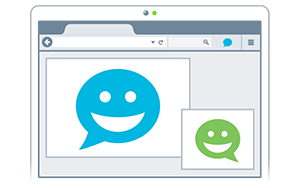
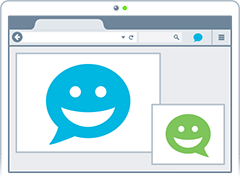
Fx36 Hello tour template updates

diff --git a/bedrock/firefox/templates/firefox/australis/fx36/whatsnew-tour.html b/bedrock/firefox/templates/firefox/australis/fx36/whatsnew-tour.html
@@ -9,11 +9,11 @@
 {% block telemetry_id %}whatsnew-tour-36-release{% endblock %}
 
 {% block site_css %}
-  {{ css('firefox_fx36_whatsnew') }}
+  {% stylesheet 'firefox_fx36_whatsnew' %}
 {% endblock %}
 
 {% block js %}
-  {{ js('firefox_fx36_whatsnew') }}
+  {% javascript 'firefox_fx36_whatsnew' %}
 {% endblock %}
 
 {% block string_data %}
@@ -21,24 +21,21 @@ data-open="{{ _('Open tour') }}"
 data-close="{{ _('Close tour') }}"
 data-next="{{ _('Next') }}"
 data-title="{{ _('Meet Hello') }}"
-
 {% if LANG.startswith('en-') %}
 data-text="The easiest way to connect for free over video with anyone, anywhere."
 {% else %}
 data-text="{{ _('The easiest way to connect for free over video with anyone, anywhere') }}"
 {% endif %}
-
 data-start="{{ _('Show me how') }}"
 data-later="{{ _('Not now') }}"
-
 data-title-no-icon="{{ _('Did you know?') }}"
 data-text-no-icon="{{ _('You can have free video conversations right from your Firefox browser.') }}"
-
 data-later-cta="{{ _('Take the tour to see what’s new') }}"
 {# L10n: This is the label that represents tour step one of two #}
 data-step1="{{ _('1/2') }}"
 {# L10n: This is the label that represents tour step two of two #}
 data-step2="{{ _('2/2') }}"
+data-has-tour="True"
 {% endblock %}
 
 {% block main_heading %}
@@ -95,11 +92,11 @@ data-step2="{{ _('2/2') }}"
                 <li>{{ _('Simply start a conversation and share a link') }}</li>
                 <li>{{ _('Invite anyone, anywhere to join') }}</li>
               </ul>
-              <div class="hello-prompt-door-hanger" data-title="{{ _('Keep conversations one click away') }}" data-text="{{ _('Add Hello to your toolbar so it’s here whenever you need it.') }}" data-button-add="{{ _('Add it now') }}" data-button-later="{{ _('Later') }}" data-icon="{{ MEDIA_URL }}img/firefox/australis/hello-icon.png" data-icon-high-res="{{ MEDIA_URL }}img/firefox/australis/hello-icon-high-res.png"></div>
+              <div class="hello-prompt-door-hanger" data-title="{{ _('Keep conversations one click away') }}" data-text="{{ _('Add Hello to your toolbar so it’s here whenever you need it.') }}" data-button-add="{{ _('Add it now') }}" data-button-later="{{ _('Later') }}"></div>
               <div class="hello-added-door-hanger" data-title="{{ _('Perfect!') }}" data-text="{{ _('Now using Hello will be even easier. To move or remove the icon, just open the menu and select Customize.') }}" data-try="{{ _('Try it now') }}"></div>
               <div class="hello-later-door-hanger" data-title="{{ _('Want to add it later?') }}" data-text="{{ _('No problem. Just open this menu, select Customize and simply drag the Hello icon into your toolbar.') }}"></div>
             </div>
-            {{ high_res_img('img/firefox/australis/hello-1.png?02-2015', {'alt': _('The features you use most, all in one place'), 'width': '300', 'height': '188'}) }}
+            {{ high_res_img('img/firefox/australis/hello-1.png', {'alt': _('The features you use most, all in one place'), 'width': '240', 'height': '178', 'id': 'hello-img-1'}) }}
           </li>
           <li class="tour-step" data-step="2" data-tip-prev="{{ _('<span>Previous:</span> Firefox Hello') }}">
             <div class="tour-item">
@@ -113,11 +110,11 @@ data-step2="{{ _('2/2') }}"
               </ul>
               <div class="hello-reminder-door-hanger step-target" data-title="{{ _('Here when you need it') }}" data-text="{{ _('Start and join conversations right from your toolbar.') }}"></div>
             </div>
-            {{ high_res_img('img/firefox/australis/hello-2.png?02-2015', {'alt': _('Connect with anyone over video right from Firefox'), 'width': '300', 'height': '188'}) }}
+            {{ high_res_img('img/firefox/australis/hello-2.png', {'alt': _('Connect with anyone over video right from Firefox'), 'width': '240', 'height': '178', 'id': 'hello-img-2'}) }}
           </li>
         </ul>
         <div class="compact-title"></div>
-        <div class="tour-init" data-target="appMenu" data-icon="{{ MEDIA_URL }}img/firefox/australis/hello-icon.png" data-icon-high-res="{{ MEDIA_URL }}img/firefox/australis/hello-icon-high-res.png"></div>
+        <div class="tour-init" data-target="appMenu" data-icon="{{ static('img/firefox/australis/hello-icon.png') }}" data-icon-high-res="{{ static('img/firefox/australis/hello-icon-high-res.png') }}"></div>
       </div>
     </div>
   </div>

diff --git a/bedrock/firefox/templates/firefox/australis/fx36/firstrun-tour.html b/bedrock/firefox/templates/firefox/australis/fx36/firstrun-tour.html
@@ -9,11 +9,11 @@
 {% block telemetry_id %}firstrun-tour-36-release{% endblock %}
 
 {% block site_css %}
-  {{ css('firefox_fx36_firstrun') }}
+  {% stylesheet 'firefox_fx36_firstrun' %}
 {% endblock %}
 
 {% block js %}
-  {{ js('firefox_fx36_firstrun') }}
+  {% javascript 'firefox_fx36_firstrun' %}
 {% endblock %}
 
 {% block string_data %}
@@ -92,7 +92,7 @@ data-step4="{{ _('4/4') }}"
                 <li><a href="#" role="button" class="more">{{ _('Connect with anyone over video right from Firefox') }}</a></li>
               </ul>
             </div>
-            {{ high_res_img('img/firefox/australis/diag-menu-bar.jpg?03-2014', {'alt': _('The features you use most, all in one place'), 'width': '300', 'height': '188'}) }}
+            {{ high_res_img('img/firefox/australis/diag-menu-bar.jpg', {'alt': _('The features you use most, all in one place'), 'width': '300', 'height': '188'}) }}
           </li>
           <li class="tour-step" data-step="2" data-tip-prev="{{ _('<span>Previous:</span> Menu') }}" data-tip-next="{{ _('<span>Next:</span> Search') }}">
             <div class="tour-item">
@@ -105,7 +105,7 @@ data-step4="{{ _('4/4') }}"
                 <li><a href="#" role="button" class="more">{{ _('Choose how you want to search') }}</a></li>
               </ul>
             </div>
-            {{ high_res_img('img/firefox/australis/hello-1.png?02-2015', {'alt': _('Connect with anyone over video right from Firefox'), 'width': '300', 'height': '188'}) }}
+            {{ high_res_img('img/firefox/australis/hello-1.png', {'alt': _('Connect with anyone over video right from Firefox'), 'width': '240', 'height': '178', 'id': 'hello-img-1'}) }}
           </li>
           <li class="tour-step" data-step="3" data-tip-prev="{{ _('<span>Previous:</span> Firefox Hello') }}" data-tip-next="{{ _('<span>Next:</span> Bookmarks') }}">
             <div class="tour-item">
@@ -119,7 +119,7 @@ data-step4="{{ _('4/4') }}"
                 <li><a href="#" role="button" class="more">{{ _('Use the star to create bookmarks') }}</a></li>
               </ul>
             </div>
-            {{ high_res_img('img/firefox/australis/diag-search.jpg?25-11-04', {'alt': _('Search suggestions appear as you type'), 'width': '300', 'height': '188'}) }}
+            {{ high_res_img('img/firefox/australis/diag-search.jpg', {'alt': _('Search suggestions appear as you type'), 'width': '300', 'height': '188'}) }}
           </li>
           <li class="tour-step" data-step="4" data-tip-prev="{{ _('<span>Previous:</span> Search') }}">
             <div class="tour-item">
@@ -132,11 +132,11 @@ data-step4="{{ _('4/4') }}"
                 <li>{{ _('Save sites with a single click') }}</li>
               </ul>
             </div>
-            {{ high_res_img('img/firefox/australis/diag-bookmarks.jpg?03-2014', {'alt': _('Use the star to create bookmarks'), 'width': '300', 'height': '188'}) }}
+            {{ high_res_img('img/firefox/australis/diag-bookmarks.jpg', {'alt': _('Use the star to create bookmarks'), 'width': '300', 'height': '188'}) }}
           </li>
         </ul>
         <div class="compact-title"></div>
-        <div class="tour-init" data-target="appMenu" data-icon="{{ MEDIA_URL }}img/firefox/australis/logo.png?2014-03" data-icon-high-res="{{ MEDIA_URL }}img/firefox/australis/logo-high-res.png?2014-03"></div>
+        <div class="tour-init" data-target="appMenu" data-icon="{{ static('img/firefox/australis/logo.png') }}" data-icon-high-res="{{ static('img/firefox/australis/logo-high-res.png') }}"></div>
       </div>
     </div>
   </div>

diff --git a/media/js/firefox/australis/browser-tour.js b/media/js/firefox/australis/browser-tour.js
@@ -70,6 +70,9 @@ if (typeof Mozilla == 'undefined') {
         this.$cta = $('.cta');
         this.$inTourLinks = this.$tourList.find('a.more');
 
+        // quick ref elem for door-hanger icons
+        this.$iconElem = $('.tour-init');
+
         // bind UITour event listeners
         this.bindEvents();
 
@@ -572,7 +575,7 @@ if (typeof Mozilla == 'undefined') {
      */
     BrowserTour.prototype.promptAddHelloButton = function () {
         var $dataElm = $('.hello-prompt-door-hanger');
-        var icon = Mozilla.ImageHelper.isHighDpi() ? $dataElm.data('iconHighRes') : $dataElm.data('icon');
+        var icon = Mozilla.ImageHelper.isHighDpi() ? this.$iconElem.data('iconHighRes') : this.$iconElem.data('icon');
 
         var buttons = [
             {
@@ -620,11 +623,11 @@ if (typeof Mozilla == 'undefined') {
      */
     BrowserTour.prototype.highlightHelloButton = function () {
         var $dataElm = $('.hello-added-door-hanger');
+        var icon = Mozilla.ImageHelper.isHighDpi() ? this.$iconElem.data('iconHighRes') : this.$iconElem.data('icon');
         var target = 'loop';
 
         Mozilla.UITour.showHighlight(target, 'wobble');
 
-        var icon = null;
         var buttons = [];
 
         var options = {
@@ -646,8 +649,8 @@ if (typeof Mozilla == 'undefined') {
      */
     BrowserTour.prototype.laterHelloButton = function () {
         var $dataElm = $('.hello-later-door-hanger');
+        var icon = Mozilla.ImageHelper.isHighDpi() ? this.$iconElem.data('iconHighRes') : this.$iconElem.data('icon');
 
-        var icon = '';
         var buttons = [];
 
         var options = {
@@ -663,6 +666,8 @@ if (typeof Mozilla == 'undefined') {
             buttons,
             options
         );
+
+        gaTrack(['_trackEvent', 'Tour Interaction', 'Later', 'The Hello icon']);
     };
 
     /*
@@ -670,6 +675,7 @@ if (typeof Mozilla == 'undefined') {
      */
     BrowserTour.prototype.reminderHelloButton = function () {
         var $dataElm = $('.hello-reminder-door-hanger');
+        var icon = Mozilla.ImageHelper.isHighDpi() ? this.$iconElem.data('iconHighRes') : this.$iconElem.data('icon');
         var target = 'loop';
         var that = this;
 
@@ -690,7 +696,7 @@ if (typeof Mozilla == 'undefined') {
                         target,
                         that.getText($dataElm.data('title')),
                         that.getText($dataElm.data('text')),
-                        null,
+                        icon,
                         buttons,
                         options
                     );

diff --git a/bedrock/firefox/templates/firefox/australis/fx36/help-menu-36-tour.html b/bedrock/firefox/templates/firefox/australis/fx36/help-menu-36-tour.html
@@ -1,0 +1,9 @@
+{# This Source Code Form is subject to the terms of the Mozilla Public
+ # License, v. 2.0. If a copy of the MPL was not distributed with this
+ # file, You can obtain one at http://mozilla.org/MPL/2.0/. #}
+
+{% extends "firefox/australis/fx36/firstrun-tour.html" %}
+
+{% set_lang_files "firefox/australis/fx36_tour" %}
+
+{% block telemetry_id %}australis-tour-firstrun-36-release-nav{% endblock %}

diff --git a/bedrock/firefox/templates/firefox/australis/fx36/whatsnew-no-tour.html b/bedrock/firefox/templates/firefox/australis/fx36/whatsnew-no-tour.html
@@ -9,11 +9,11 @@
 {% block telemetry_id %}whatsnew-no-tour-36-release{% endblock %}
 
 {% block site_css %}
-  {{ css('firefox_fx36_whatsnew_no_tour') }}
+  {% stylesheet 'firefox_fx36_whatsnew_no_tour' %}
 {% endblock %}
 
 {% block js %}
-  {{ js('firefox_fx36_whatsnew_no_tour') }}
+  {% javascript 'firefox_fx36_whatsnew_no_tour' %}
 {% endblock %}
 
 {% block string_data %}{% endblock %}

diff --git a/media/css/firefox/australis/australis-ui-tour.less b/media/css/firefox/australis/australis-ui-tour.less
@@ -365,6 +365,13 @@ body.noscroll {
         width: 100%;
     }
 
+    .progress[aria-valuemax="2"][aria-valuenow="1"] .indicator {
+        width: 50%;
+    }
+    .progress[aria-valuemax="2"][aria-valuenow="2"] .indicator {
+        width: 100%;
+    }
+
     .logo {
         width: 43px;
         height: 44px;

diff --git a/media/css/firefox/australis/fx36/common.less b/media/css/firefox/australis/fx36/common.less
@@ -29,6 +29,19 @@ body {
     opacity: 0.4;
 }
 
+#ui-tour {
+
+    #hello-img-1 {
+        width: 240px;
+        height: 178px;
+    }
+
+    #hello-img-2 {
+        width: 240px;
+        height: 178px;
+    }
+}
+
 #newsletter-form,
 #newsletter-form-thankyou {
     width: 900px;

diff --git a/bedrock/firefox/tests/test_base.py b/bedrock/firefox/tests/test_base.py
@@ -642,6 +642,34 @@ class TestWhatsNew(TestCase):
 
     # end 34.0.5 search tour tests
 
+    # begin 36.0 hello tour tests
+
+    @override_settings(DEV=True)
+    def test_fx_36_0(self, render_mock):
+        """Should use no tour template for 36.0 with no old version"""
+        req = self.rf.get('/en-US/firefox/whatsnew/')
+        self.view(req, version='36.0')
+        template = render_mock.call_args[0][1]
+        eq_(template, ['firefox/australis/fx36/whatsnew-no-tour.html'])
+
+    @override_settings(DEV=True)
+    def test_fx_36_0_with_oldversion(self, render_mock):
+        """Should use hello whatsnew tour template for 36.0 with old version"""
+        req = self.rf.get('/en-US/firefox/whatsnew/?oldversion=35.0')
+        self.view(req, version='36.0')
+        template = render_mock.call_args[0][1]
+        eq_(template, ['firefox/australis/fx36/whatsnew-tour.html'])
+
+    @override_settings(DEV=True)
+    def test_fx_36_0_with_wrong_oldversion(self, render_mock):
+        """Should no tour template for 36.0 with old version that is greater"""
+        req = self.rf.get('/en-US/firefox/whatsnew/?oldversion=36.1')
+        self.view(req, version='36.0')
+        template = render_mock.call_args[0][1]
+        eq_(template, ['firefox/australis/fx36/whatsnew-no-tour.html'])
+
+    # end 36.0 hello tour tests
+
     # ESR31 whatsnew tests
 
     @override_settings(DEV=True)
@@ -770,6 +798,14 @@ class TestTourView(TestCase):
         template = render_mock.call_args[0][1]
         eq_(template, ['firefox/australis/help-menu-tour.html'])
 
+    @override_settings(DEV=True)
+    def test_fx_firstrun_tour_36_0(self, render_mock):
+        """Should use fx36 tour template for 36.0"""
+        req = self.rf.get('/en-US/firefox/firstrun/')
+        self.view(req, version='36.0')
+        template = render_mock.call_args[0][1]
+        eq_(template, ['firefox/australis/fx36/help-menu-36-tour.html'])
+
     @override_settings(DEV=False)
     def test_fx_australis_secure_redirect(self, render_mock):
         """Should redirect to https"""
@@ -878,6 +914,14 @@ class TestFirstRun(TestCase):
         self.view(req, version='34.0')
         template = render_mock.call_args[0][1]
         eq_(template, ['firefox/australis/firstrun-tour.html'])
+
+    @override_settings(DEV=True)
+    def test_fx_firstrun_tour_36_0(self, render_mock):
+        """Should use fx36 tour template for 36.0"""
+        req = self.rf.get('/en-US/firefox/firstrun/')
+        self.view(req, version='36.0')
+        template = render_mock.call_args[0][1]
+        eq_(template, ['firefox/australis/fx36/firstrun-tour.html'])
 
     @override_settings(DEV=False)
     def test_fx_australis_secure_redirect(self, render_mock):

diff --git a/bedrock/settings/base.py b/bedrock/settings/base.py
@@ -429,6 +429,7 @@ PIPELINE_CSS = {
         'source_filenames': (
             'css/sandstone/sandstone.less',
             'css/firefox/australis/australis-ui-tour.less',
+            'css/firefox/hello-animation.less',
             'css/firefox/australis/fx36/common.less',
         ),
         'output_filename': 'css/firefox_fx36_firstrun-bundle.css',
@@ -437,6 +438,7 @@ PIPELINE_CSS = {
         'source_filenames': (
             'css/sandstone/sandstone.less',
             'css/firefox/australis/australis-ui-tour.less',
+            'css/firefox/hello-animation.less',
             'css/firefox/australis/fx36/common.less',
         ),
         'output_filename': 'css/firefox_fx36_whatsnew-bundle.css',
@@ -444,6 +446,7 @@ PIPELINE_CSS = {
     'firefox_fx36_whatsnew_no_tour': {
         'source_filenames': (
             'css/sandstone/sandstone.less',
+            'css/firefox/hello-animation.less',
             'css/firefox/australis/fx36/common.less',
         ),
         'output_filename': 'css/firefox_fx36_whatsnew_no_tour-bundle.css',

diff --git a/bedrock/firefox/views.py b/bedrock/firefox/views.py
@@ -521,6 +521,8 @@ class TourView(LatestFxView):
 
         if show_devbrowser_firstrun(version):
             template = 'firefox/dev-firstrun.html'
+        elif show_36_firstrun(version):
+            template = 'firefox/australis/fx36/help-menu-36-tour.html'
         elif show_search_firstrun(version) and locale == 'en-US':
             template = 'firefox/australis/help-menu-34-tour.html'
         else:
